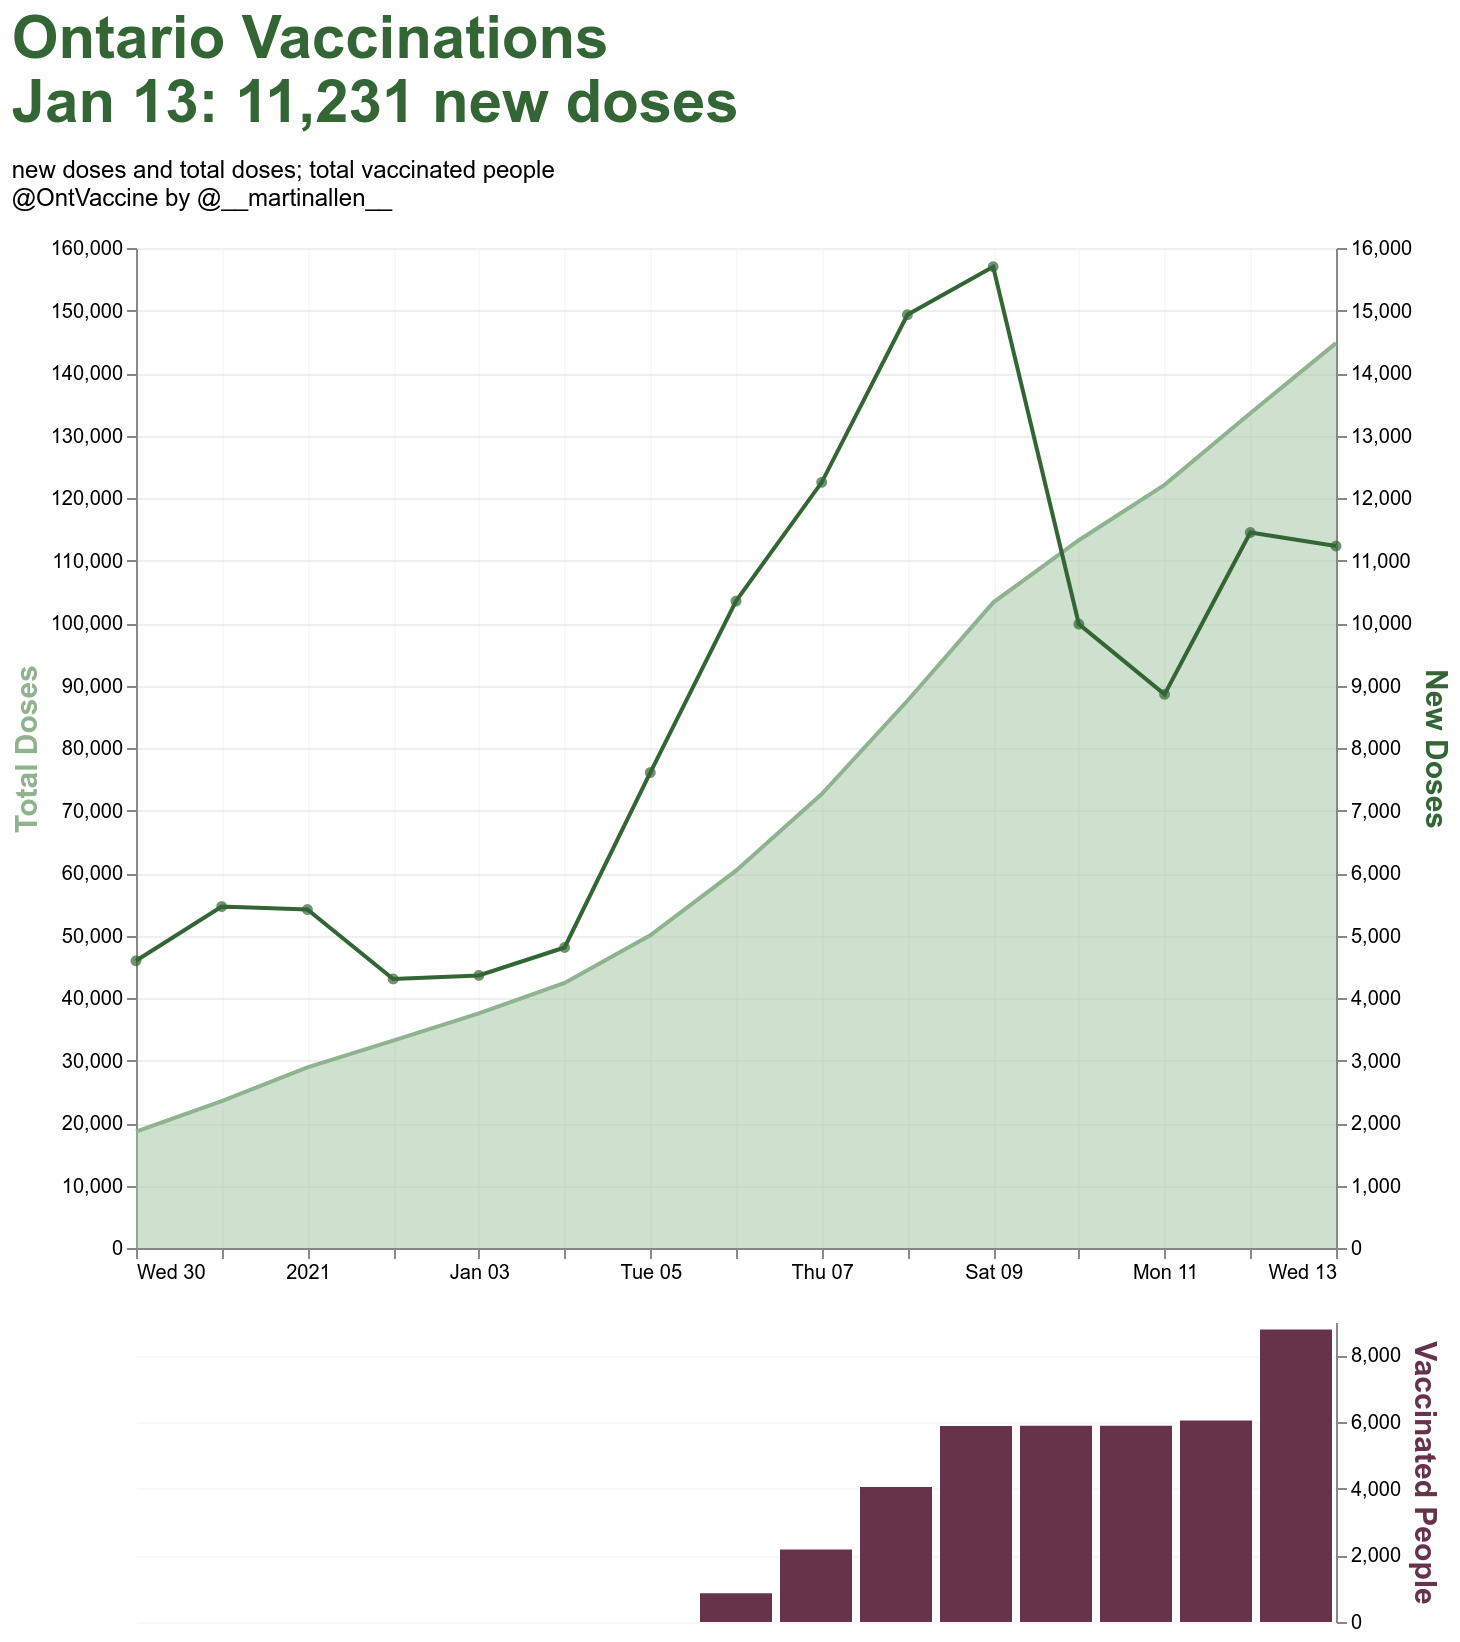
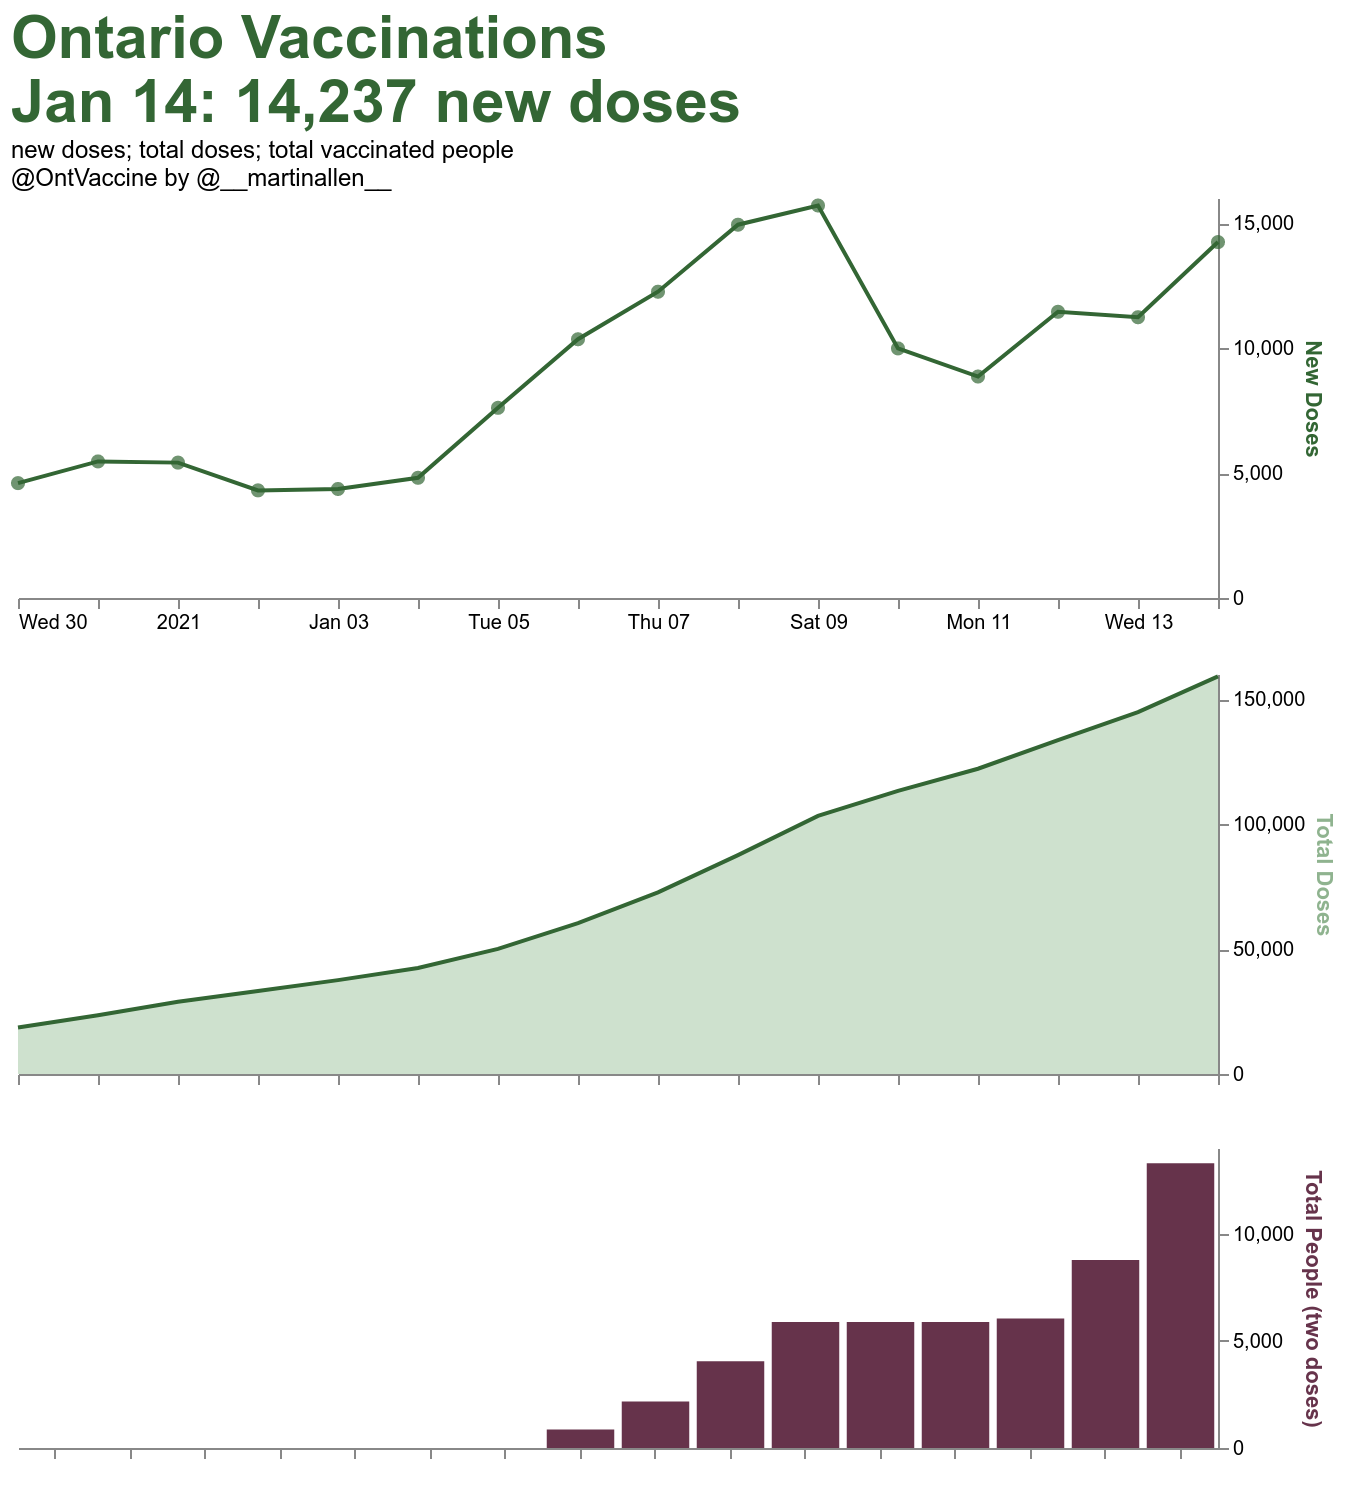
Vacc thumb v2

diff --git a/vacc_thumb_v2.py b/vacc_thumb_v2.py
@@ -1,0 +1,123 @@
+import pandas as pd
+import altair as alt
+
+def rows(df):
+    
+    print(f'Making rows for {today}...')
+    
+    # new dots/line
+    new_dots = alt.Chart(df).mark_circle(
+        color = '#336634',
+        size = 50
+    ).encode(
+        alt.X('date:T',
+             axis = alt.Axis(title=None)),
+        alt.Y('new:Q',
+            axis = alt.Axis(
+                title='New Doses',
+                titleColor = '#336634',
+                orient = 'right'
+                ))
+    )
+    new_line = alt.Chart(df).mark_line(
+        color = '#336634'
+    ).encode(
+        alt.X('date:T',
+             axis = alt.Axis(title=None)),
+        alt.Y('new:Q',
+             axis = alt.Axis(
+                 orient = 'right'
+             ))
+    )
+    new = alt.layer(
+        new_line, new_dots
+    ).properties(
+        width = 600,
+        height = 200
+    )
+    
+    # total area chart
+    total = alt.Chart(df).mark_area(
+        line = {'color': '#336634'},
+        color = '#9DC49E',
+        opacity = 0.5
+    ).encode(
+        alt.X('date:T',
+             axis = alt.Axis(
+                 title=None,
+                 labelOpacity = 0
+             )),
+        alt.Y('total:Q',
+            axis = alt.Axis(
+                title='Total Doses',
+                titleColor = '#8FB38F',
+                orient = 'right'
+                ))
+    ).properties(
+        width = 600,
+        height = 200
+    )
+    
+    # vaccinations bar chart
+    vaccd = alt.Chart(df).mark_bar(
+        color = '#66334B'
+    ).encode(
+        alt.X('date:O',
+              axis = alt.Axis(
+                  labelOpacity = 0,
+                  labelFontSize = 1,
+                  title = None,
+                  grid = False
+                )
+        ),
+        alt.Y('vaccinated:Q', 
+              axis = alt.Axis(
+                  title = 'Total People (two doses)',
+                  titleColor = '#66334B',
+                  orient = 'right'
+                ))
+    ).properties(
+        width = 600,
+        height = 150,
+    )
+    
+    return new, total, vaccd
+
+def plot(new, total, vaccd):
+    
+    print('Combining into thumbnail...')
+    
+    thumb = alt.VConcatChart(
+        vconcat = [new, total, vaccd]
+    ).configure_view(
+        strokeWidth = 0
+    ).configure_axis(
+        grid = False
+    ).properties(
+            title = {
+                'text': [
+                    'Ontario Vaccinations',
+                    f'{today}: {doses:,d} new doses'
+                ],
+                'subtitle': [
+                    'new doses; total doses; total vaccinated people',
+                    '@OntVaccine by @__martinallen__'
+                ]
+            }
+    ).configure_title(
+            fontSize = 30,
+            color = '#336634'
+    )
+    
+    return thumb
+    
+if __name__ == "__main__":
+    df = pd.read_csv('./data/output/vaccine.csv')
+    today = pd.to_datetime(df.iloc[-1].date).strftime('%b %d')
+    doses = int(df.iloc[-1].new)
+    
+    new, total, vaccd = rows(df)
+    thumb = plot(new, total, vaccd)
+    
+    thumb.save('./data/viz/vacc_chart.png', scale_factor=2.0)
+    print('Thumbnail saved to ./data/viz/vacc_chart.png!')    
